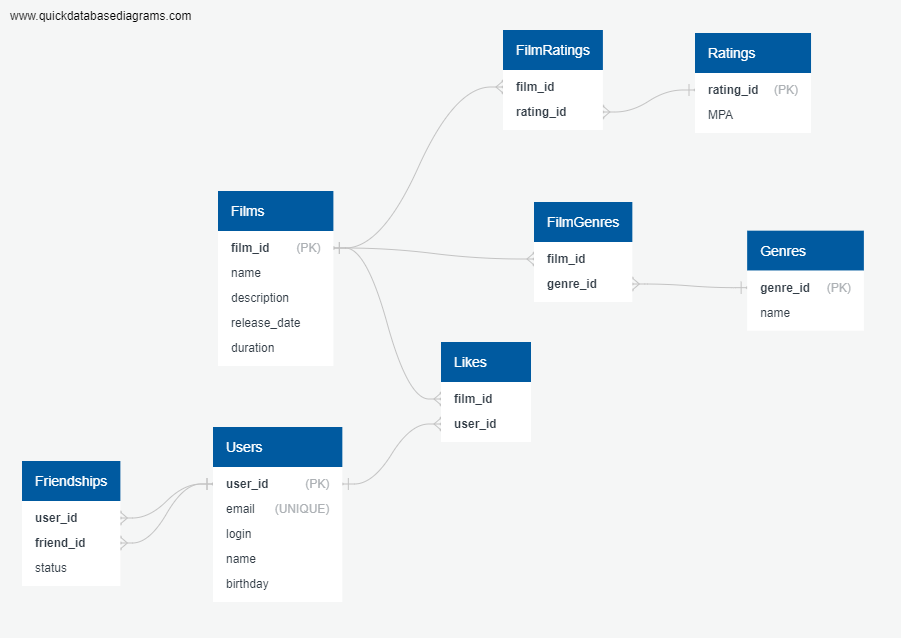
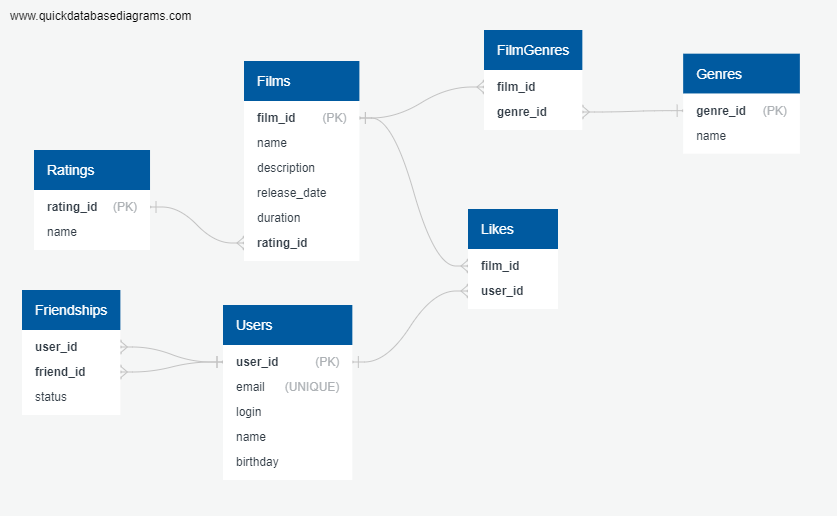
update database image

diff --git a/README.md b/README.md
@@ -1,5 +1,3 @@
-# java-filmorate
-
 ## Диаграмма базы данных
 
 ![Диаграмма базы данных](./QuickDBD-export.png)
@@ -12,30 +10,30 @@
 
 - **Получение всех фильмов:**
   ```sql
-  SELECT * FROM Films;
+  SELECT * FROM films;
 
 - **Получение пользователя по ID:**
   ```sql
-  SELECT * FROM Users WHERE user_id = ?;
+  SELECT * FROM users WHERE user_id = ?;
 
 - **Добавление нового друга:**
   ```sql
-  INSERT INTO Friendships (user_id, friend_id, status)
-  VALUES (?, ?, 'PENDING');
+  INSERT INTO friendships (user_id, friend_id, status)
+  VALUES (?, ?, FALSE);
 
 - **Получение списка общих друзей двух пользователей:**
   ```sql
   SELECT u.*
-  FROM Users u
-  JOIN Friendships f1 ON u.user_id = f1.friend_id
-  JOIN Friendships f2 ON u.user_id = f2.friend_id
-  WHERE f1.user_id = ? AND f2.user_id = ?;
+  FROM users u
+  JOIN friendships f1 ON u.user_id = f1.friend_id
+  JOIN friendships f2 ON u.user_id = f2.friend_id
+  WHERE f1.user_id = ? AND f2.user_id = ? AND f1.status = TRUE AND f2.status = TRUE;
 
 - **Получение топ N популярных фильмов:**
   ```sql
-  SELECT f.*, COUNT(l.user_id) as likes_count
-  FROM Films f
-  LEFT JOIN Likes l ON f.film_id = l.film_id
+  SELECT f.*, COUNT(l.user_id) AS likes_count
+  FROM films f
+  LEFT JOIN likes l ON f.film_id = l.film_id
   GROUP BY f.film_id
   ORDER BY likes_count DESC
-  LIMIT N;
+  LIMIT ?;
